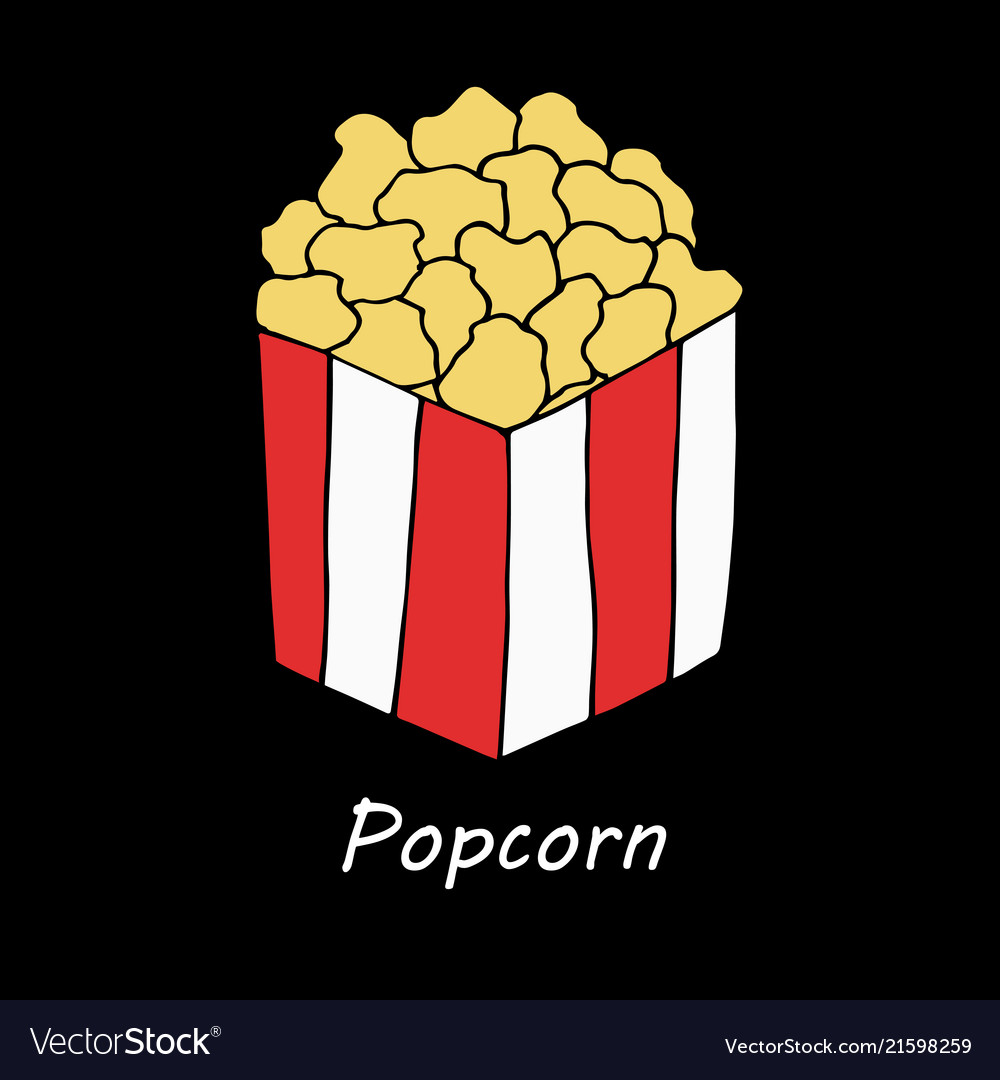
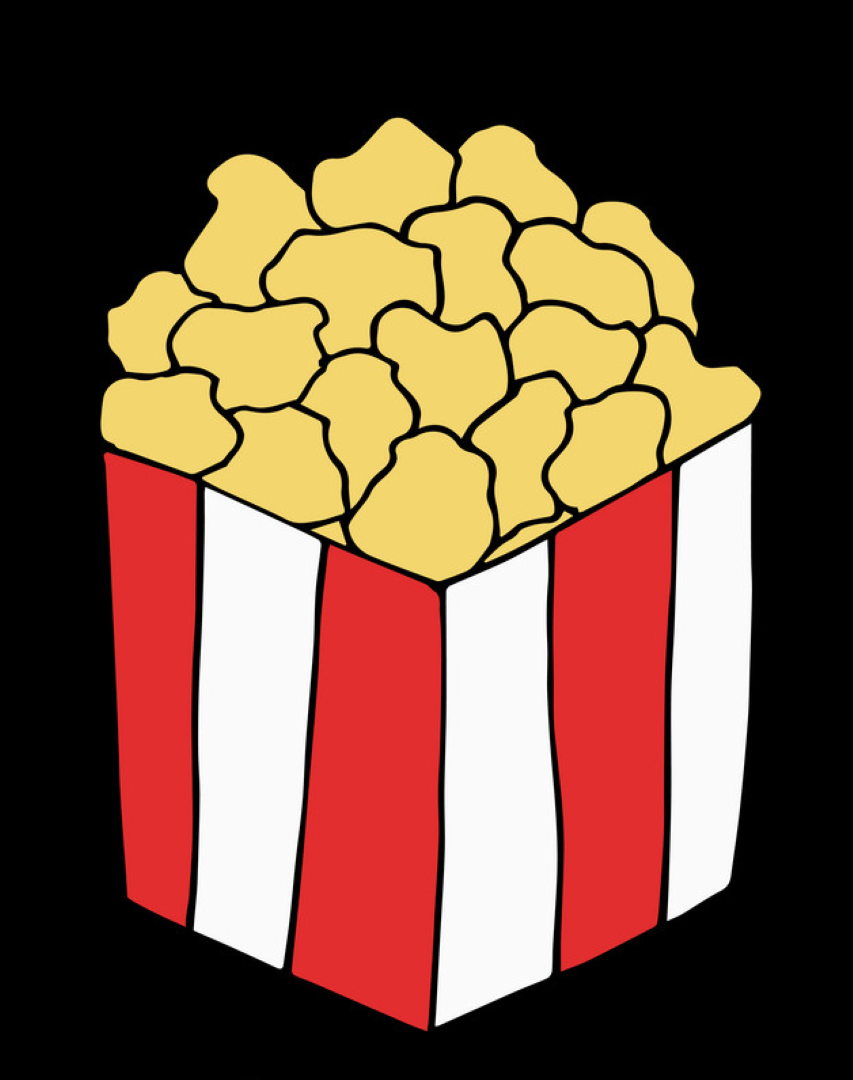
ticketing css

diff --git a/css/ticketing.css b/css/ticketing.css
@@ -35,11 +35,21 @@ body{
         grid-area: content;
         display: flex;
         flex-direction: row;
-        
-        & img{
-            width: 7rem;
-            height: auto;
-            padding: 1rem 3rem;
+        & article{
+            
+            & p{
+                color: var(--color-bright-gray);
+            }
+            & button{
+                color: var(--color-bright-gray);
+                padding: 1 2rem;
+                border-radius: 100%;
+            }
+            & img{
+                width: auto;
+                height: 10rem;
+                padding: 1rem 3rem;
+            }
         }
     }
     & aside{
@@ -105,8 +115,6 @@ body{
                 color: var(--color-bright-gray);
                 padding: 0 0.25em;
                 border-radius: 100%;
-                
-                
             }
             & span{
                 background-color: var(--color-gray);

diff --git a/ticketing.html b/ticketing.html
@@ -405,7 +405,7 @@
     </div> 
     <div id="food_and_drinks">
         <article>
-            <img src="img_mandah/eat & drink/popcorn.png" alt="" >
+            <img src="Images/popcorn.png" alt="" >
             <h6>Попкорн</h6>
             <p>5,000₮</p>
             <button>+</button>
